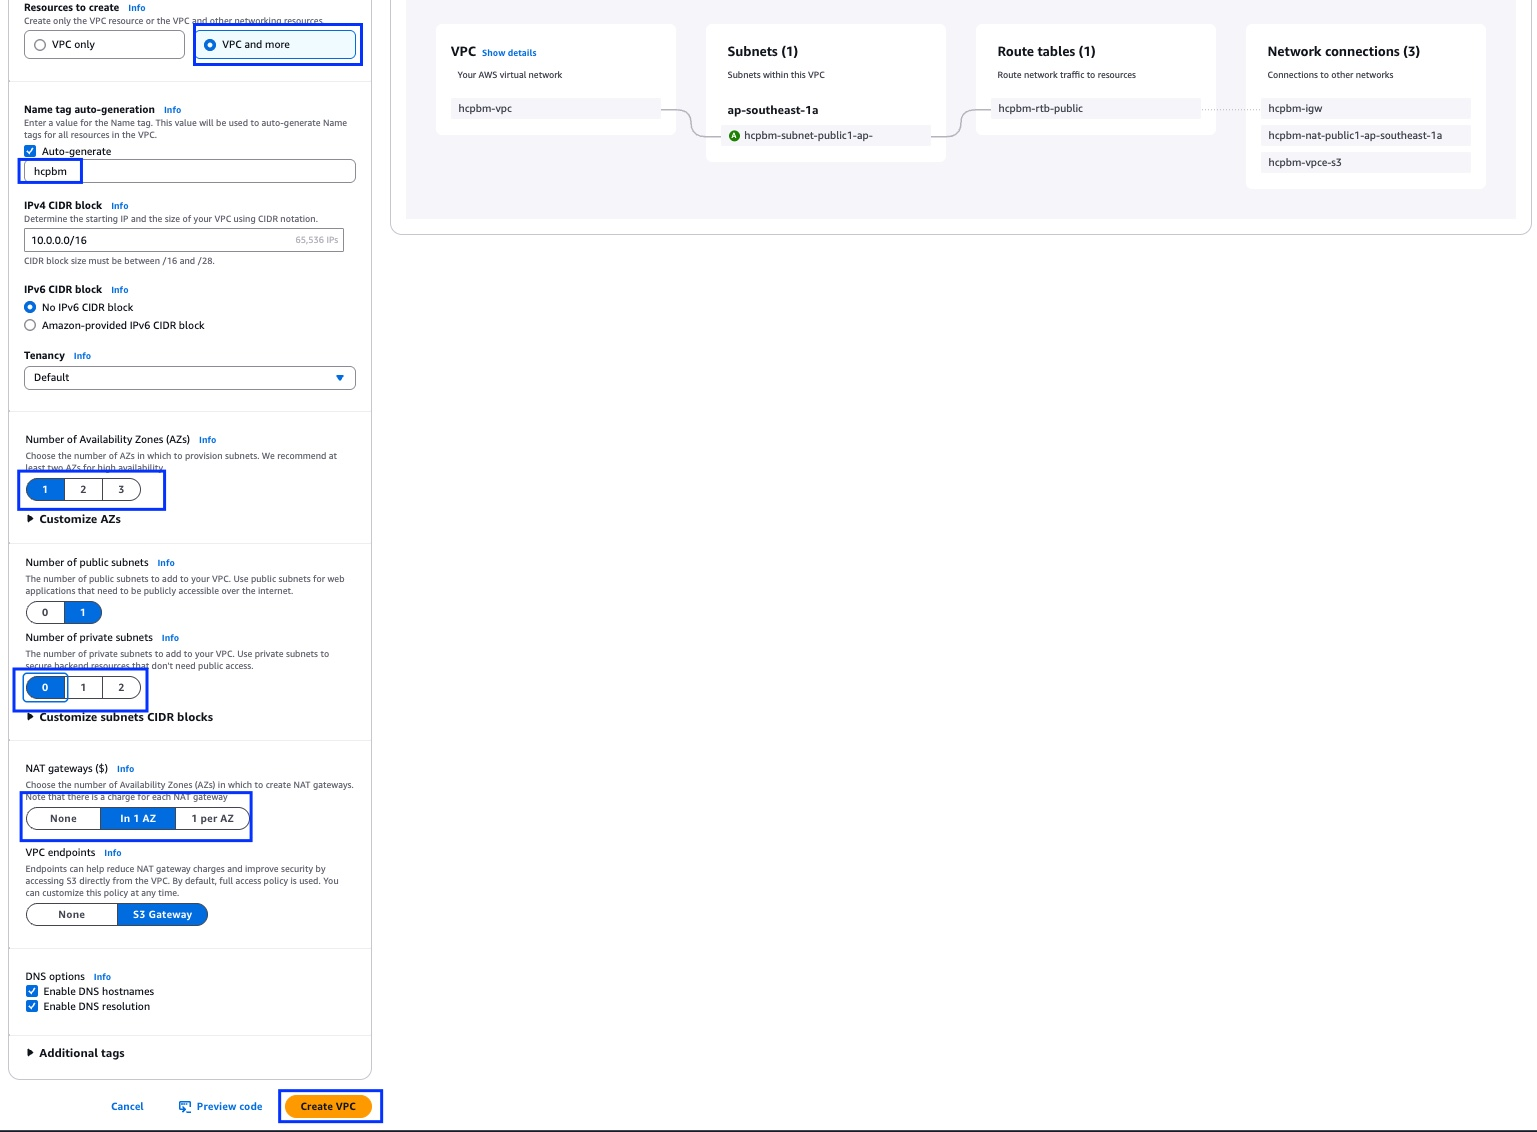
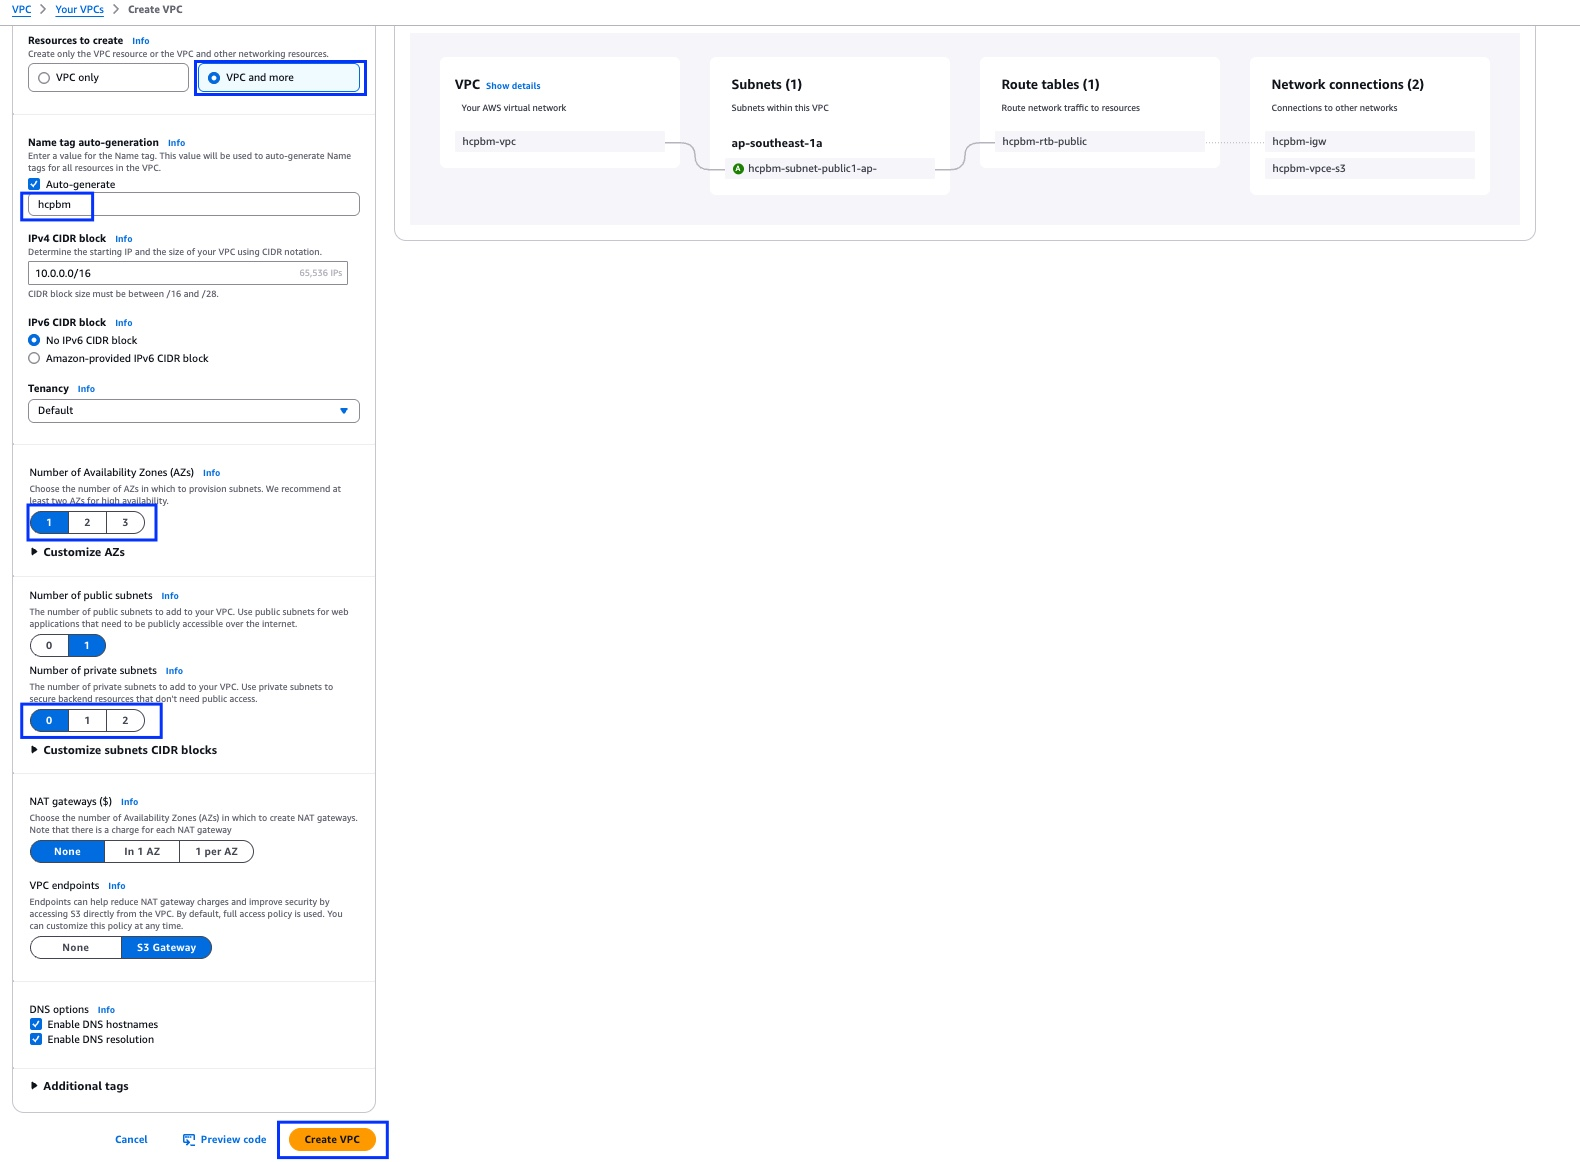
Deploy preview for PR 1 🛫

diff --git a/pr-preview/pr-1/hcp-on-bm/1/chapter1/index.html b/pr-preview/pr-1/hcp-on-bm/1/chapter1/index.html
@@ -190,27 +190,7 @@
 <p>Select “0” under “Number of Private Subnets”</p>
 </li>
 <li>
-<p>Select "None" under "NAT Gateways ($)"</p>
-<div class="admonitionblock warning">
-<table>
-<tr>
-<td class="icon">
-<i class="fa icon-warning" title="Warning"></i>
-</td>
-<td class="content">
-It won&#8217;t work exactly as is in the screen shot, but throw an error: <strong>NAT Gateway needs a private subnet to configure outbound traffic</strong>. There is no need for a NAT gateway because the instance has a public IP address.
-</td>
-</tr>
-</table>
-</div>
-</li>
-<li>
 <p>Then click on “Create VPC”</p>
-<div class="imageblock">
-<div class="content">
-<img src="_images/s2-fig-3.jpg" alt="s2 fig 3">
-</div>
-</div>
 </li>
 </ol>
 </div>
